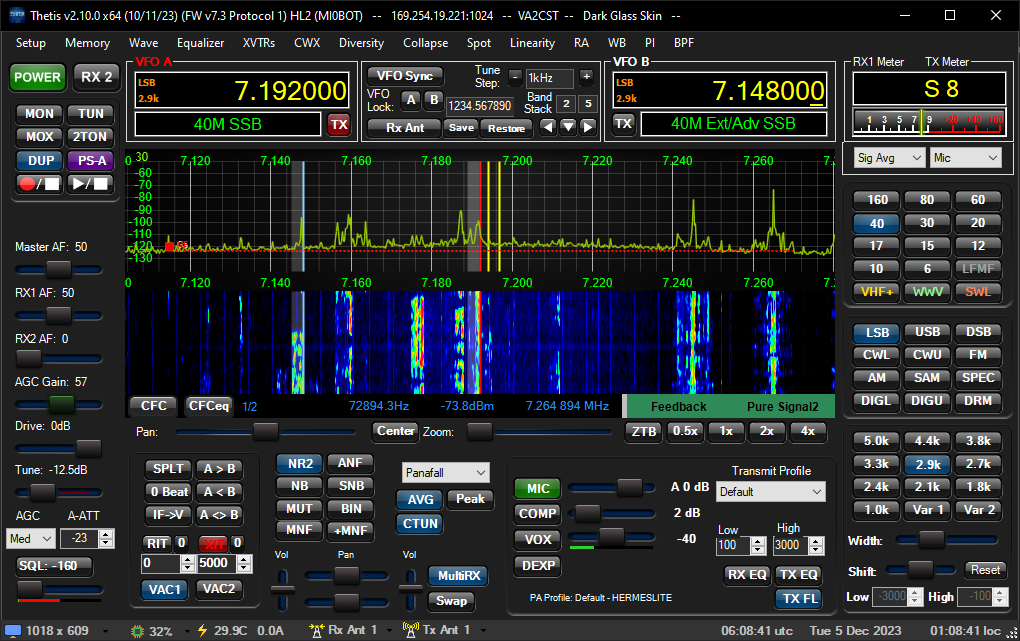
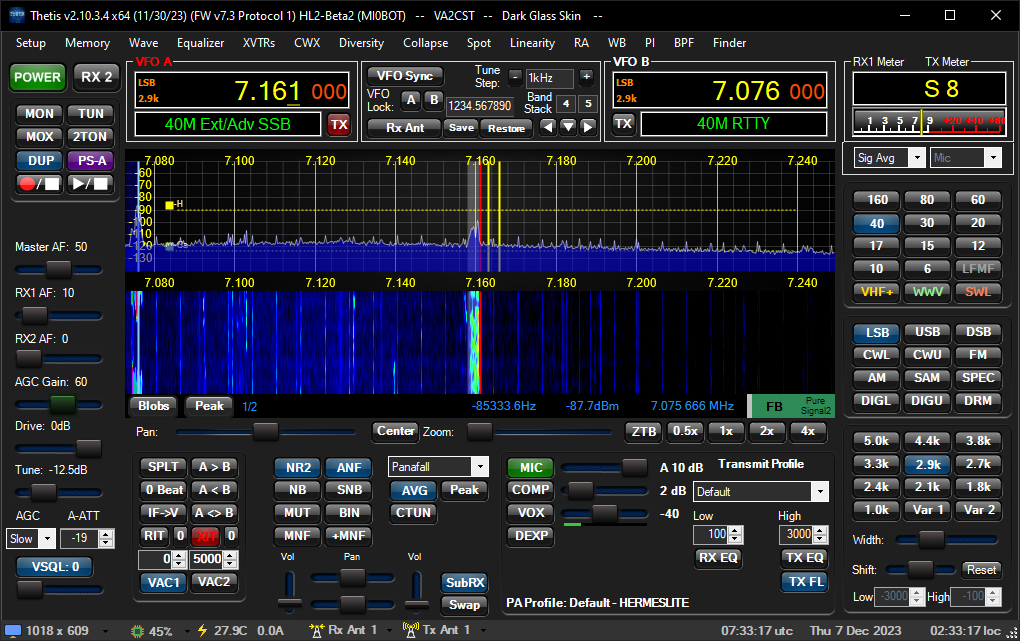
Update
Upgraded preview picture to reflect Thetis v2.10.3.4 and it's overall graphical changes and upgrades.

diff --git a/README.md b/README.md
@@ -2,6 +2,8 @@
  
  Skin for OpenHPSDR-Thetis SDR software.
 
+ * 2023-12-07-02. Upgraded Preview picture to reflect Thetis v2.10.3.4.
+
  * 2023-12-07-01. Modified Sub RX buttons size to Thetis v2.10.3.4
 	* The Sub RX button has change size. Previous button "chkEnableMultiRX-x-v2.10.0.png" is still in the folder in case you would like to run Thetis v2.10.0. Rename "chkEnableMultiRX-x-v2.10.0.png" to "chkEnableMultiRX-x.png" to get the larger button version.
 
